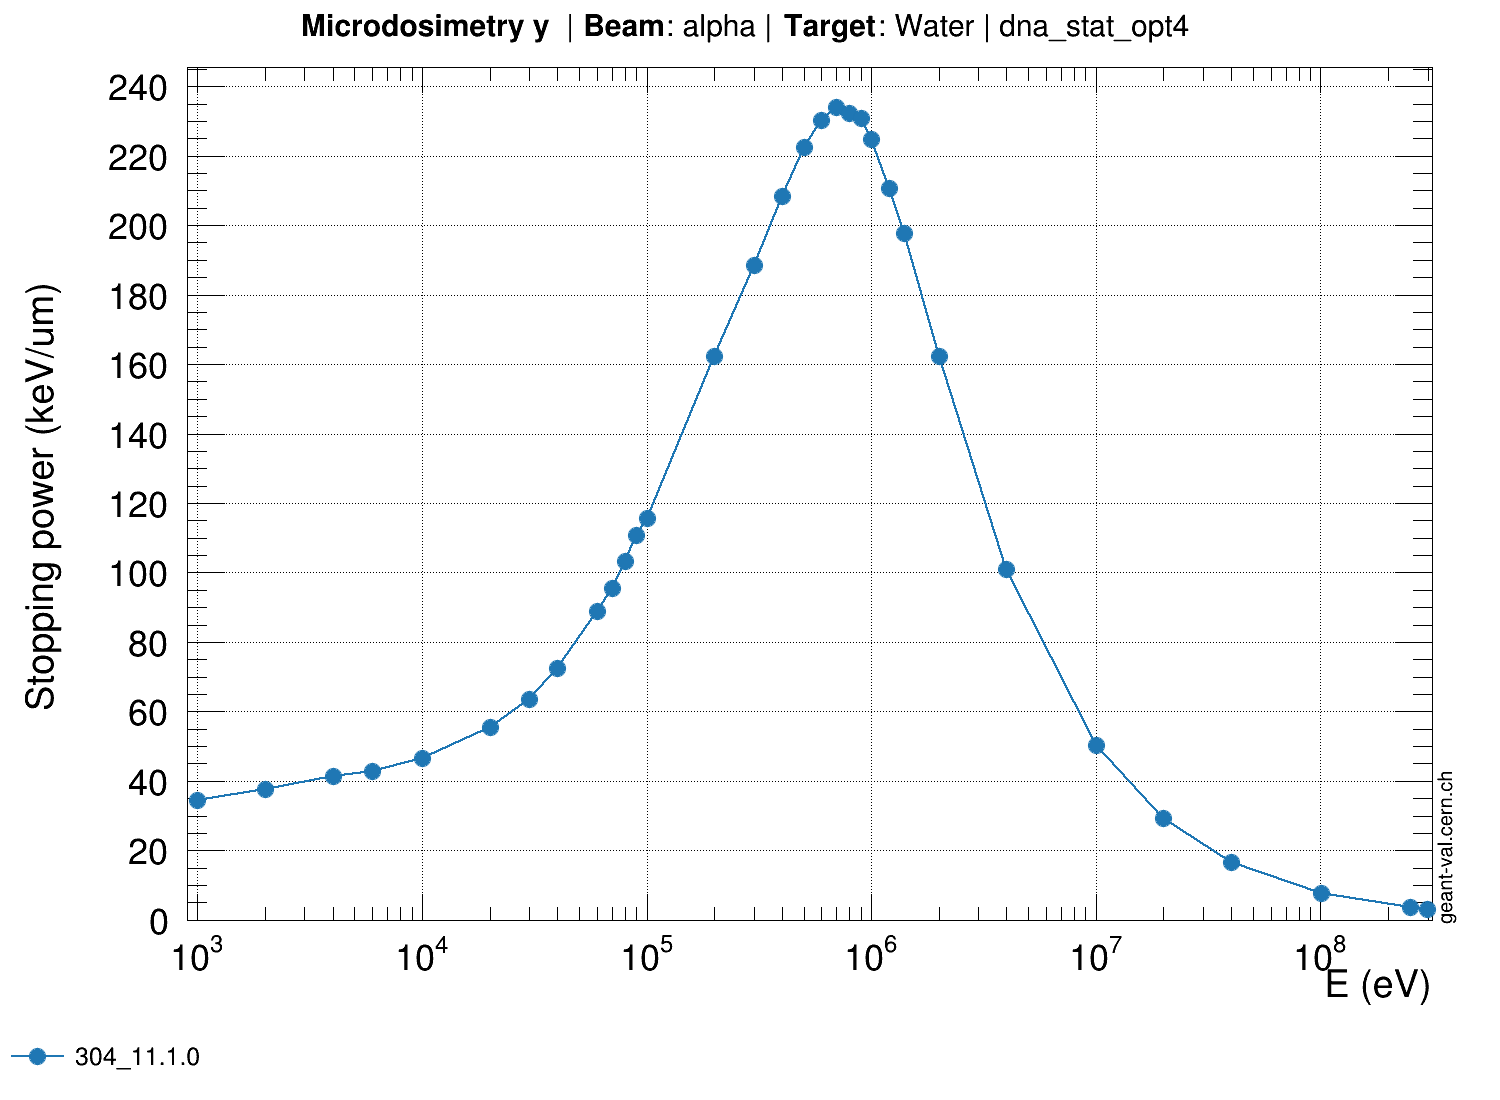
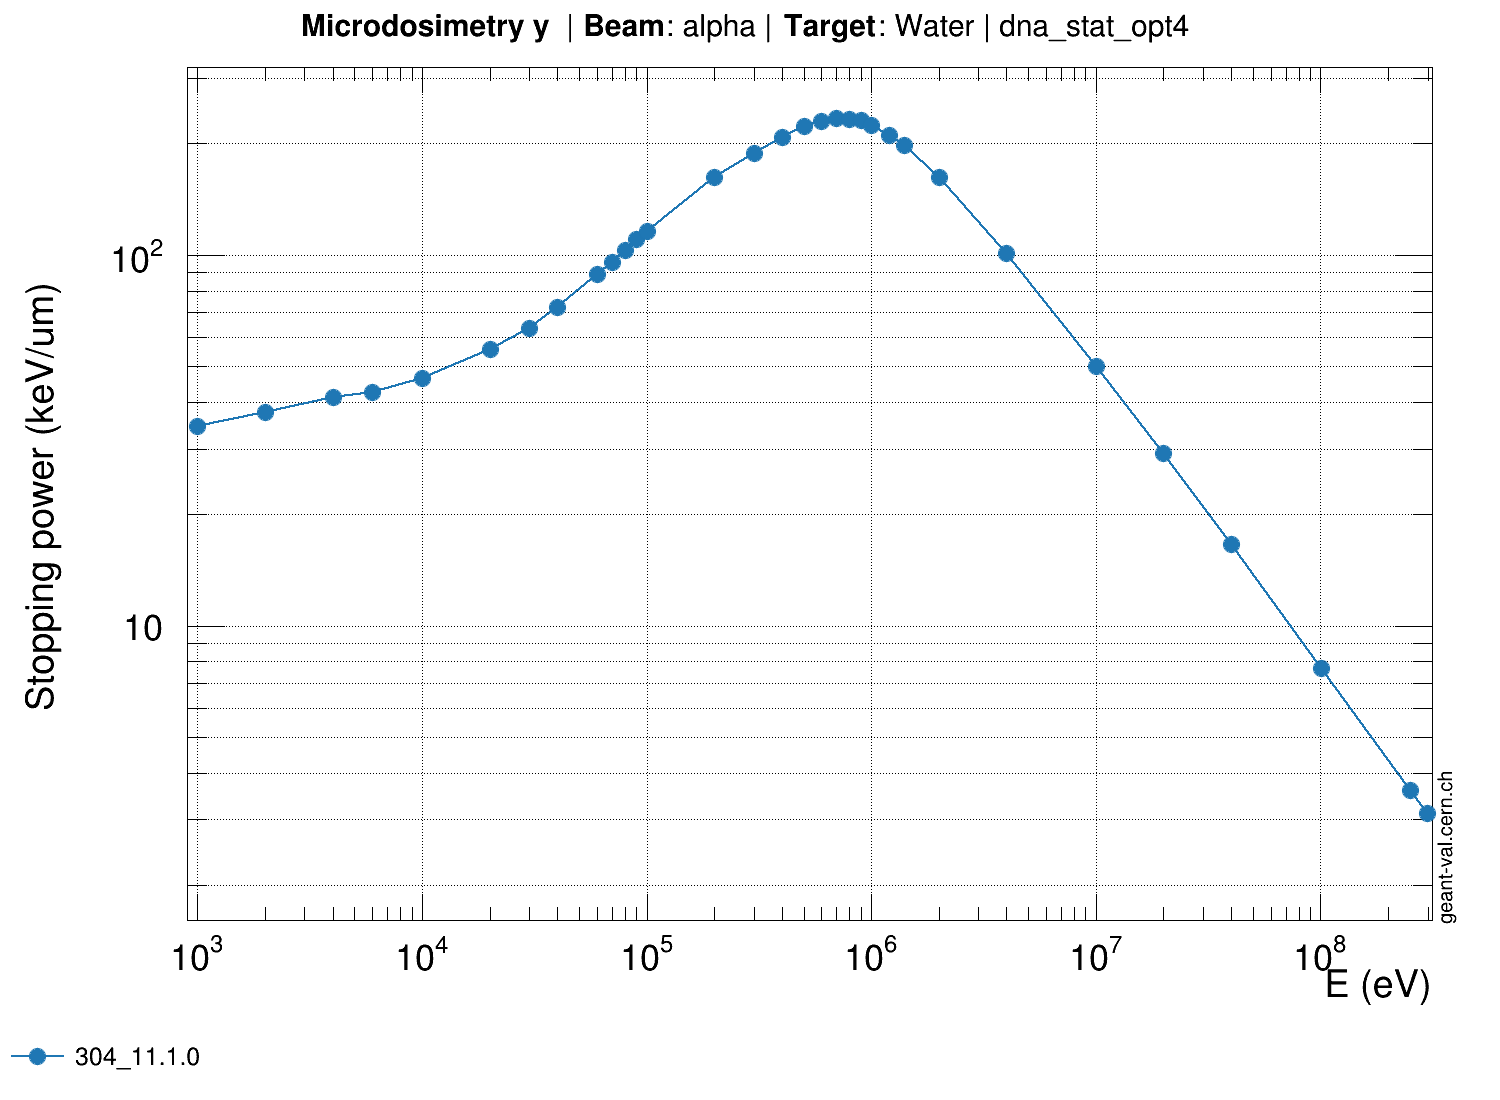
spower/alpha.conf/304_11.1.0 : mar. mars 21 16:03:13 CET 2023

diff --git a/assets/OUTPUTJSON/geant4/304_11.1.0/x86_64/spower/alpha.conf.c b/assets/OUTPUTJSON/geant4/304_11.1.0/x86_64/spower/alpha.conf.c
@@ -142,3 +142,147 @@ double gvp_id-1_yerrors[32] = {
   0,
   0
 };
+// Tool:               GEANT4
+// Version:            304_11.1.0
+// Model:              dna_stat_opt4
+// Observable:         microdosimetry y
+// Target:             Water
+// Beam Particle:      alpha
+// Secondary Particle: None
+
+double gvp_id-1_x[32] = {
+  1000,
+  2000,
+  4000,
+  6000,
+  10000,
+  20000,
+  30000,
+  40000,
+  60000,
+  70000,
+  80000,
+  90000,
+  100000,
+  200000,
+  300000,
+  400000,
+  500000,
+  600000,
+  700000,
+  800000,
+  900000,
+  1e+06,
+  1.2e+06,
+  1.4e+06,
+  2e+06,
+  4e+06,
+  1e+07,
+  2e+07,
+  4e+07,
+  1.01e+08,
+  2.5e+08,
+  2.99e+08
+};
+double gvp_id-1_y[32] = {
+  34.5772,
+  37.698,
+  41.3434,
+  42.7933,
+  46.6023,
+  55.5736,
+  63.5463,
+  72.3514,
+  89.0047,
+  95.5218,
+  103.346,
+  110.651,
+  115.691,
+  162.183,
+  188.624,
+  208.505,
+  222.489,
+  230.289,
+  234.062,
+  232.387,
+  230.897,
+  224.77,
+  210.577,
+  197.74,
+  162.354,
+  100.898,
+  50.2785,
+  29.1779,
+  16.5488,
+  7.67027,
+  3.59953,
+  3.11579
+};
+double gvp_id-1_xerrors[32] = {
+  0,
+  0,
+  0,
+  0,
+  0,
+  0,
+  0,
+  0,
+  0,
+  0,
+  0,
+  0,
+  0,
+  0,
+  0,
+  0,
+  0,
+  0,
+  0,
+  0,
+  0,
+  0,
+  0,
+  0,
+  0,
+  0,
+  0,
+  0,
+  0,
+  0,
+  0,
+  0
+};
+double gvp_id-1_yerrors[32] = {
+  0,
+  0,
+  0,
+  0,
+  0,
+  0,
+  0,
+  0,
+  0,
+  0,
+  0,
+  0,
+  0,
+  0,
+  0,
+  0,
+  0,
+  0,
+  0,
+  0,
+  0,
+  0,
+  0,
+  0,
+  0,
+  0,
+  0,
+  0,
+  0,
+  0,
+  0,
+  0
+};
